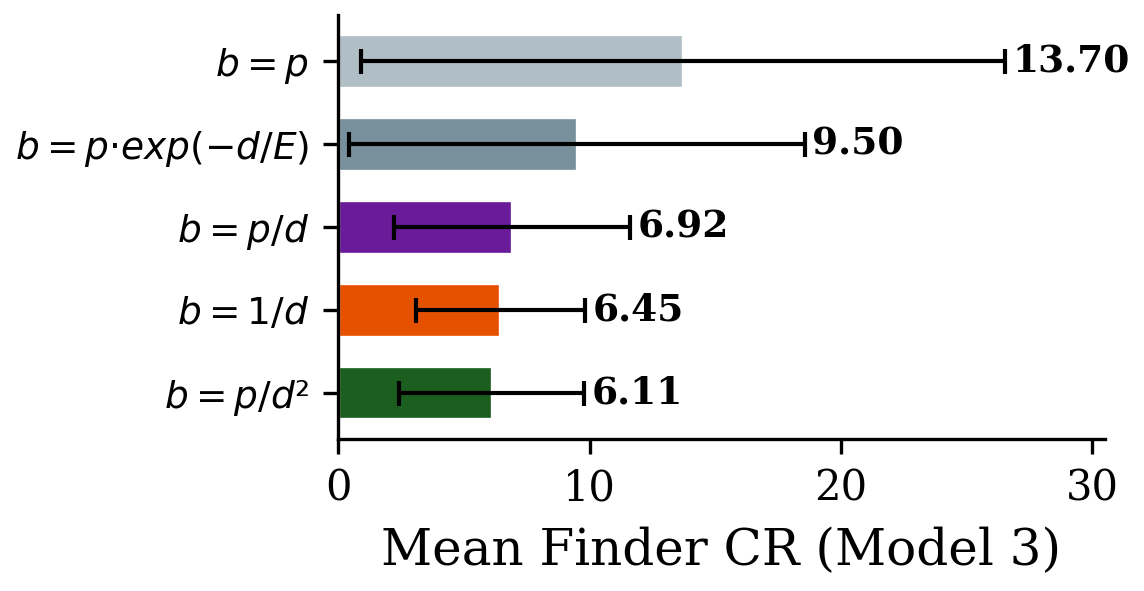
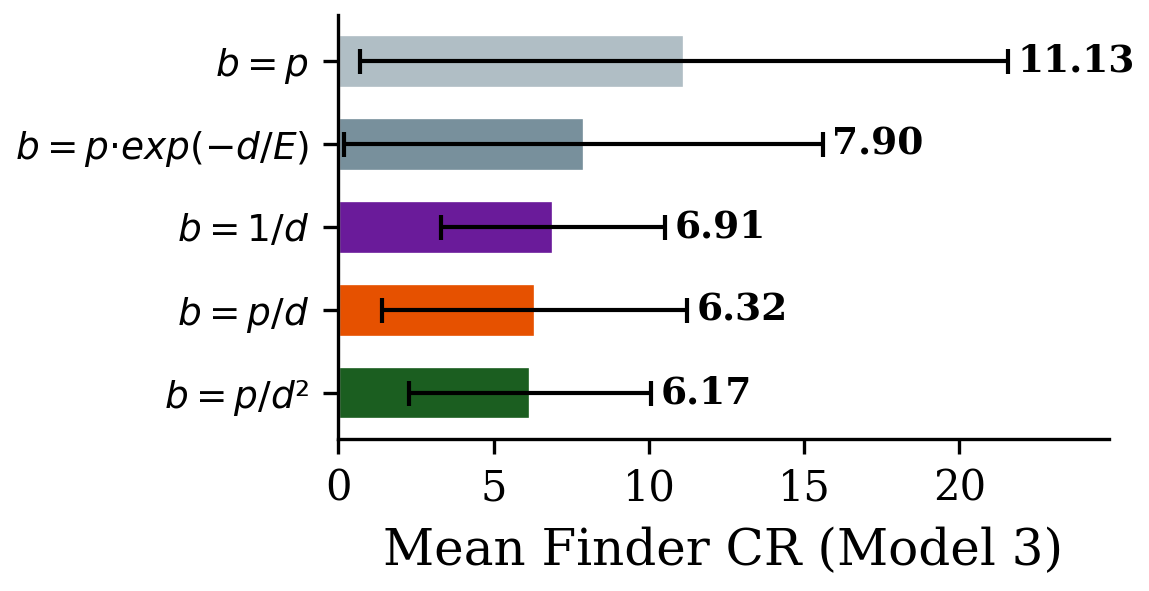
Paper: fix intro summary paragraph + regenerate bid figure at 5,000 trials
- paper.tex Introduction: update "500 trials"→"5,000 trials", "5.7%"→"8.1%",
  "92%"→"90%", "4.2%"→"1.5%", and expand point (ii) with H_pd clustering
  pathology explanation (was previously only in abstract, not intro)
- figures/fig_bid_variants.png: regenerated at 5,000 trials (was 500); FCR
  ordering confirmed p/d² < p/d < 1/d < p·exp(-d/E) < p; file 43,620 bytes
- experiments/regen_bid_fig.py: standalone regeneration script for bid figure

diff --git a/experiments/regen_bid_fig.py b/experiments/regen_bid_fig.py
@@ -1,0 +1,47 @@
+"""Regenerate fig_bid_variants.png at 5,000 trials.
+
+Run from the repo root:
+    python experiments/regen_bid_fig.py
+"""
+from __future__ import annotations
+
+import os
+import sys
+
+# Ensure the repo root is on the path so `main` is importable.
+_HERE = os.path.dirname(os.path.abspath(__file__))
+_ROOT = os.path.dirname(_HERE)
+if _ROOT not in sys.path:
+    sys.path.insert(0, _ROOT)
+
+import matplotlib
+matplotlib.use('Agg')  # non-interactive backend — safe on all platforms
+
+from main import run_bid_variants, plot_bid_variants, setup_style
+
+# Output path — paper uses \graphicspath{{../figures/}}
+SAVE_PATH = os.path.join(_ROOT, 'figures', 'fig_bid_variants.png')
+
+if __name__ == '__main__':
+    # Apply the same matplotlib style as main.py's figures.
+    setup_style()
+
+    print('Running bid-variant simulation: n=30, R=3, L=10, E=14, trials=5000, seed=42')
+    bid_results = run_bid_variants(n=30, R=3, L=10, E=14, n_trials=5000, seed=42)
+
+    # Print summary of mean FCR per variant (sorted best → worst).
+    import numpy as np
+    sorted_variants = sorted(bid_results.items(),
+                             key=lambda kv: np.mean(kv[1]) if kv[1] else 999)
+    print('\nBid variant results (sorted by mean FCR, best first):')
+    for name, fcrs in sorted_variants:
+        if fcrs:
+            print(f'  {name:20s}  mean={np.mean(fcrs):.4f}  std={np.std(fcrs):.4f}  n={len(fcrs)}')
+        else:
+            print(f'  {name:20s}  no valid trials')
+
+    plot_bid_variants(bid_results, SAVE_PATH)
+
+    size = os.path.getsize(SAVE_PATH)
+    print(f'\nDone — figures/fig_bid_variants.png written (5000 trials)')
+    print(f'File size: {size:,} bytes  ({SAVE_PATH})')
